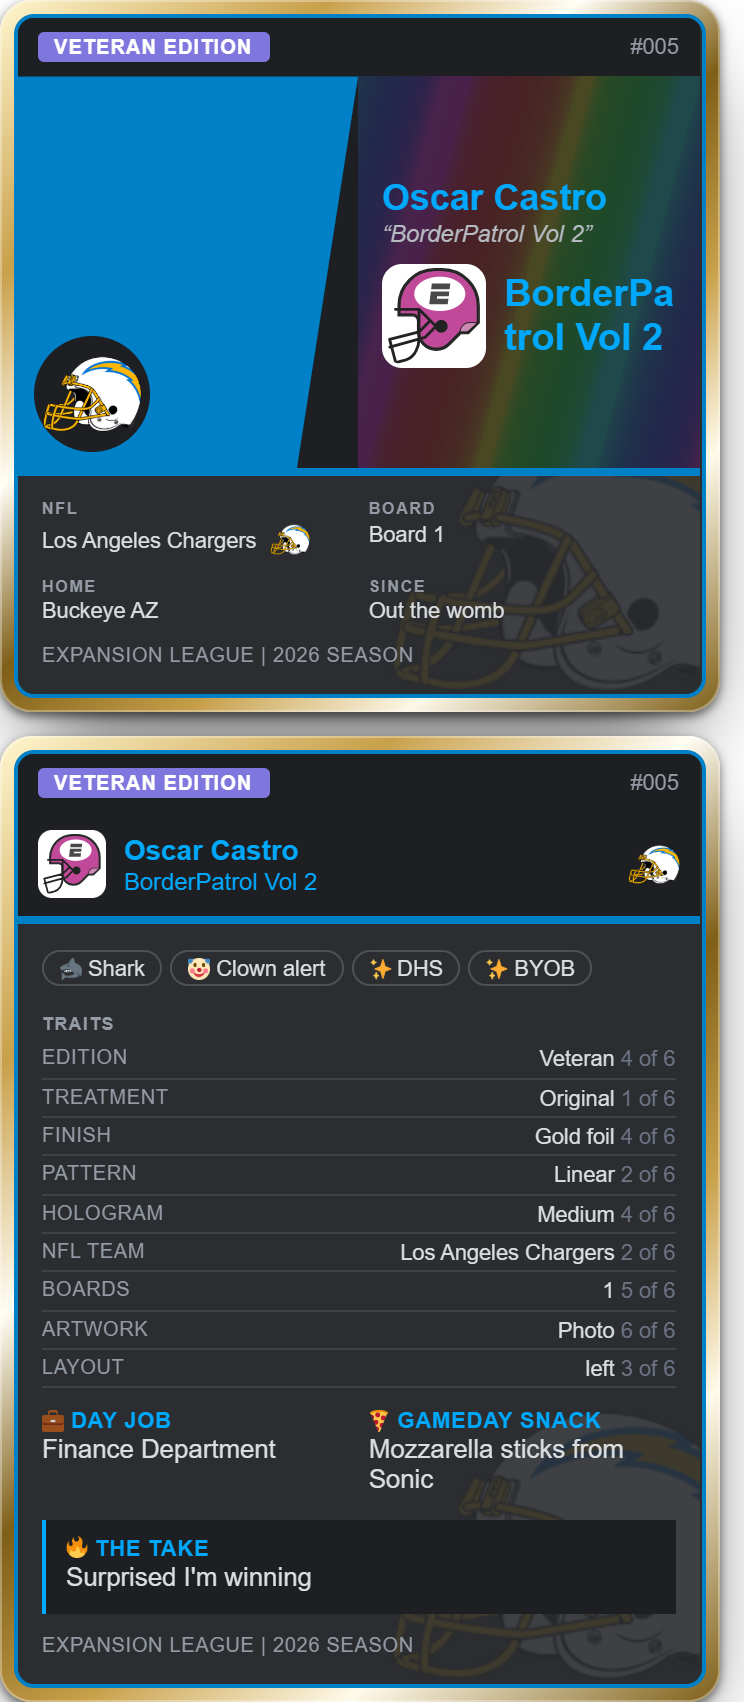
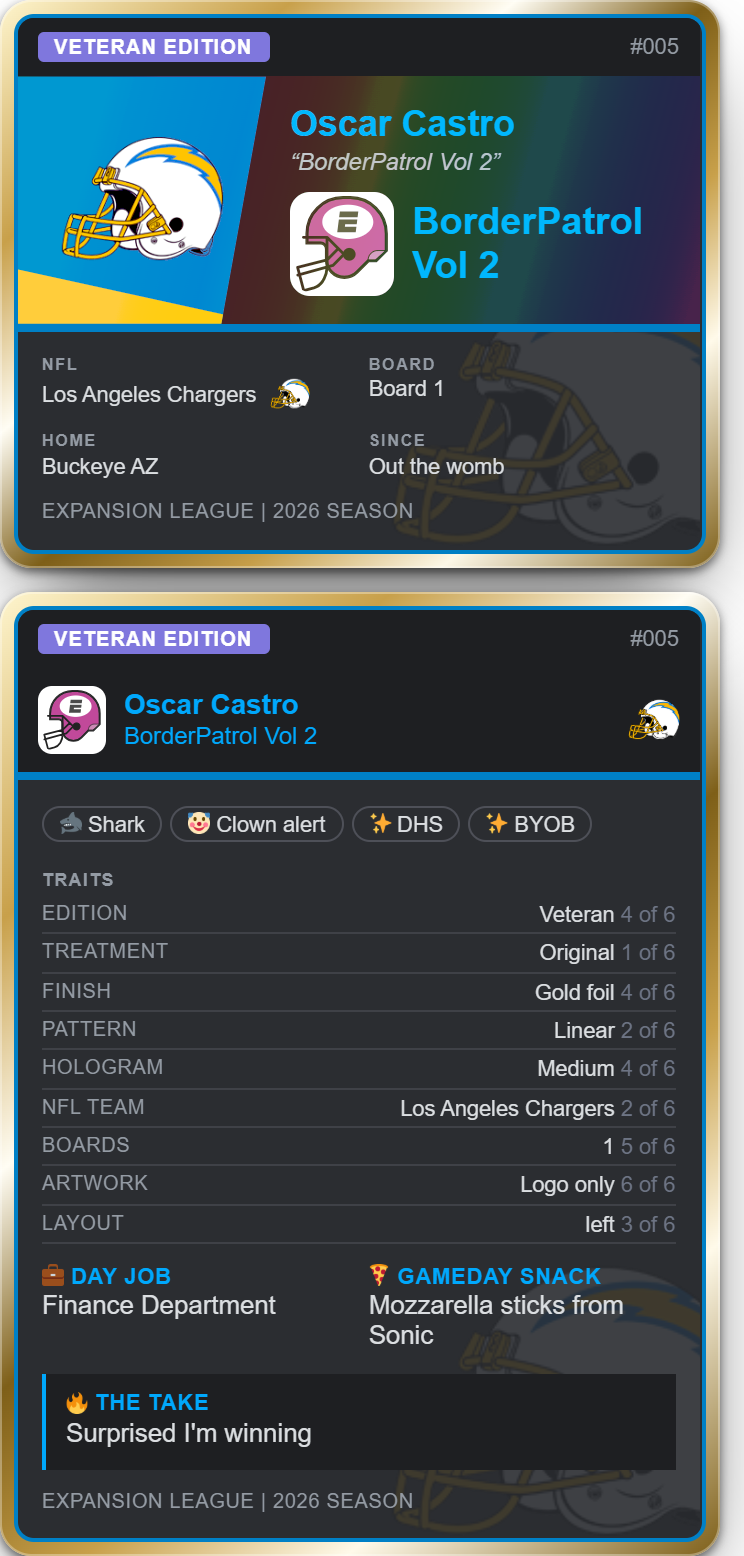
Hologram covers the whole header when there is no photo
With a photo the shine stays on the name plate so it never buries the picture.
With no photo there is nothing to bury, so it runs across the header the way a
foil card actually looks — which is what #004 shows and what everyone expects.

Oscar's #005 re-rendered that way.

diff --git a/cards/index.html b/cards/index.html
@@ -302,7 +302,12 @@ function card(which){
  // The shine lives on the name plate — the block beside the photo carrying the name and the
  // team. Not over the artwork, which is the one part of the card that belongs to the person.
  const foilOn=S.holoAmt>0;
- const holo=foilOn?`<div class="nftholo ${PATS[S.pattern]||'p-linear'}" style="opacity:${(S.holoAmt/100).toFixed(2)}"></div>`:"";
+ const holoDiv=foilOn?`<div class="nftholo ${PATS[S.pattern]||'p-linear'}" style="opacity:${(S.holoAmt/100).toFixed(2)}"></div>`:"";
+ // With a photo the shine stays on the name plate so it never buries the picture. With no photo
+ // there is nothing to bury, so it runs across the whole header the way a foil card actually
+ // looks — which is what #004 shows and what everyone expects to see.
+ const holo=S.photo?holoDiv:"";
+ const headHolo=S.photo?"":holoDiv;
  const plate=`<div style="min-width:0;flex:1;position:relative;padding:14px 12px;display:flex;flex-direction:column;justify-content:center;text-align:${L=='center'?'center':'left'}">${holo}
   <div style="position:relative;color:${S.nameC};font-size:18px;font-weight:700;line-height:1.2">${esc(S.name)||"Name"}</div>
   ${S.nick?`<div style="position:relative;color:#b5bac1;font-size:12px;font-style:italic">“${esc(S.nick)}”</div>`:""}
@@ -328,7 +333,7 @@ function card(which){
  const edc={Rookie:"#1D9E75",Veteran:"#7F77DD",Commissioner:"#FFC62F"}[S.ed];
  const meta=[t[1],bshort(selB()),S.where?"📍 "+esc(S.where):"",S.since?"Playing since "+esc(S.since):""].filter(Boolean).join("  |  ");
  const also=alsoOn(24);
- const headWrap=head;
+ const headWrap=headHolo?`<div style="position:relative">${head}${headHolo}</div>`:head;
  // The four things that are true all season and never need typing twice: the NFL
  // team, the boards, where you are, and how long you have been here. None of them
  // goes stale mid-season, which is the whole reason a week-2 score is not here.
